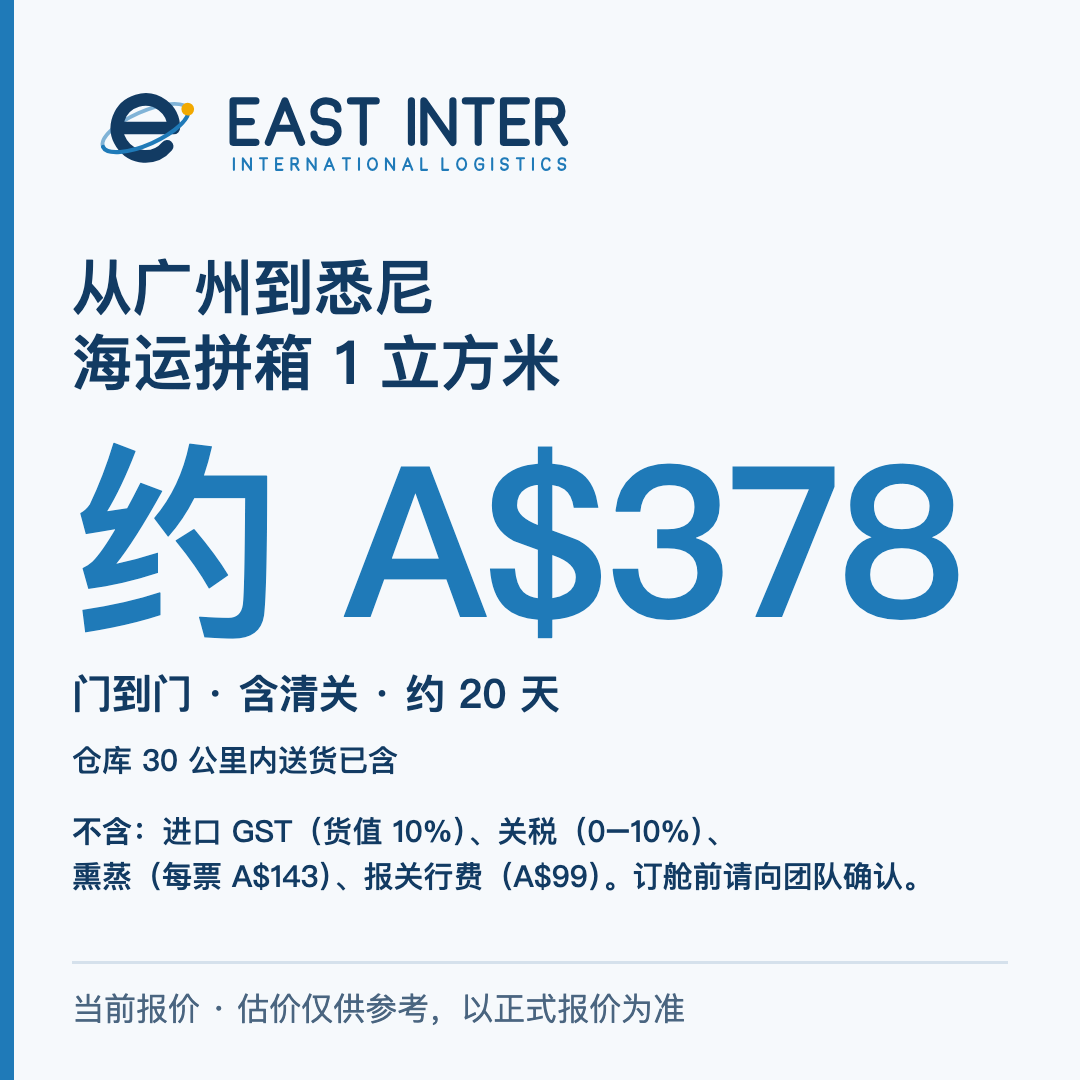
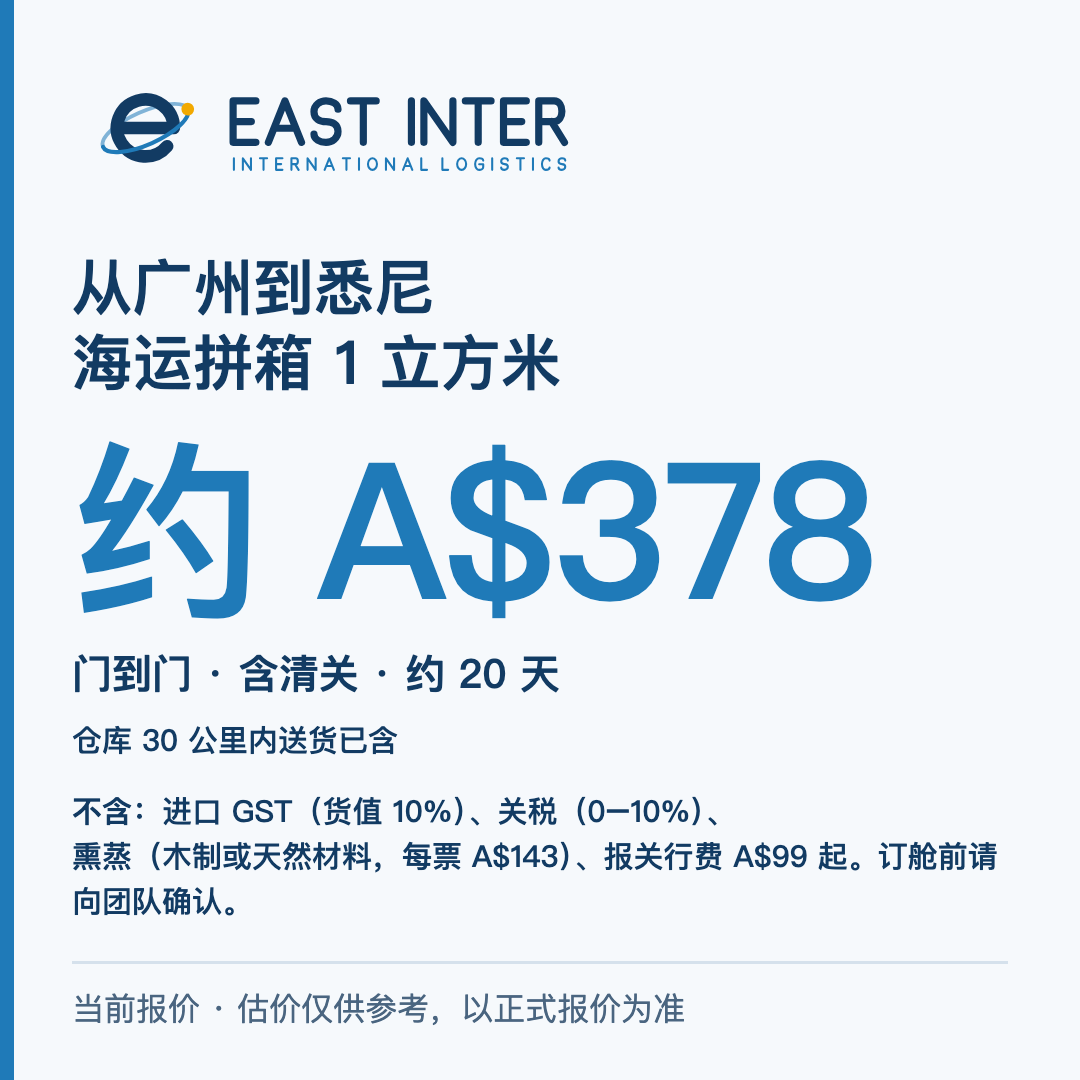
docs(client): 卡 1 熏蒸条件、报关行费、去掉「30 秒」（苏东坡复看意见）[east.social.copy-101]

Changed region(s): [[0.0611, 0.3972, 0.9167, 0.8556], [0.275, 0.3972, 0.8861, 0.6722]]

diff --git a/docs/clients/east-inter/cards-draft/card1-zh.html b/docs/clients/east-inter/cards-draft/card1-zh.html
@@ -5,7 +5,7 @@ body{width:1080px;height:1080px;background:#F6F9FC;font-family:'PingFang SC','He
 .bar{position:absolute;left:0;top:0;width:14px;height:1080px;background:#1F7AB8}
 .main{position:absolute;left:72px;right:72px;top:250px}
 h1{font-size:60px;line-height:1.25;font-weight:800;letter-spacing:.5px}
-.big{font-size:210px;line-height:1;font-weight:900;color:#1F7AB8;margin:36px 0 18px;letter-spacing:-4px}
+.big{font-size:190px;line-height:1;font-weight:900;color:#1F7AB8;margin:36px 0 18px;letter-spacing:-4px}
 .sub{font-size:44px;line-height:1.5;font-weight:600}
 .row{display:flex;justify-content:space-between;align-items:baseline;font-size:54px;font-weight:700;padding:20px 0;border-bottom:3px solid #D5E1EC}
 .row b{color:#1F7AB8;font-weight:900}
@@ -25,4 +25,4 @@ h1{font-size:60px;line-height:1.25;font-weight:800;letter-spacing:.5px}
 <path d="M 230.60 46.00 H 202.00 V 98.00 H 230.60 M 202.00 72.00 H 224.88 M 246.20 98.00 L 267.00 46.00 L 287.80 98.00 M 254.52 80.32 H 279.48 M 333.56 56.40 C 333.56 49.64 326.02 46.00 318.48 46.00 C 310.94 46.00 303.40 51.20 303.40 59.52 C 303.40 68.88 310.94 72.00 318.48 72.00 C 326.02 72.00 333.56 75.12 333.56 84.48 C 333.56 92.80 326.02 98.00 318.48 98.00 C 310.94 98.00 303.40 94.36 303.40 87.60 M 349.16 46.00 H 381.40 M 365.28 46.00 V 98.00 M 425.60 46.00 V 98.00 M 441.20 98.00 V 46.00 L 477.60 98.00 V 46.00 M 493.20 46.00 H 525.44 M 509.32 46.00 V 98.00 M 569.64 46.00 H 541.04 V 98.00 H 569.64 M 541.04 72.00 H 563.92 M 585.24 98.00 V 46.00 H 604.58 C 617.48 46.00 617.48 72.00 604.58 72.00 H 585.24 M 601.36 72.00 L 617.48 98.00" fill="none" stroke="#123B63" stroke-width="9" stroke-linecap="round" stroke-linejoin="round"/>
 <path d="M 203.00 118.00 V 132.50 M 214.25 132.50 V 118.00 L 224.40 132.50 V 118.00 M 235.65 118.00 H 244.64 M 240.15 118.00 V 132.50 M 263.87 118.00 H 255.89 V 132.50 H 263.87 M 255.89 125.25 H 262.27 M 275.12 132.50 V 118.00 H 280.51 C 284.11 118.00 284.11 125.25 280.51 125.25 H 275.12 M 279.61 125.25 L 284.11 132.50 M 295.36 132.50 V 118.00 L 305.51 132.50 V 118.00 M 316.76 132.50 L 322.56 118.00 L 328.36 132.50 M 319.08 127.57 H 326.04 M 339.61 118.00 H 348.60 M 344.10 118.00 V 132.50 M 359.85 118.00 V 132.50 M 376.75 118.00 C 379.58 118.00 382.41 120.90 382.41 125.25 C 382.41 129.60 379.58 132.50 376.75 132.50 C 373.93 132.50 371.10 129.60 371.10 125.25 C 371.10 120.90 373.93 118.00 376.75 118.00 Z M 393.66 132.50 V 118.00 L 403.81 132.50 V 118.00 M 415.06 132.50 L 420.86 118.00 L 426.66 132.50 M 417.38 127.57 H 424.34 M 437.91 118.00 V 132.50 H 445.16 M 464.39 118.00 V 132.50 H 471.64 M 488.54 118.00 C 491.37 118.00 494.20 120.90 494.20 125.25 C 494.20 129.60 491.37 132.50 488.54 132.50 C 485.71 132.50 482.89 129.60 482.89 125.25 C 482.89 120.90 485.71 118.00 488.54 118.00 Z M 515.60 120.90 C 515.60 119.16 513.06 118.00 510.52 118.00 C 507.98 118.00 505.45 120.90 505.45 125.25 C 505.45 129.60 507.98 132.50 510.52 132.50 C 513.06 132.50 515.60 131.05 515.60 128.88 V 125.54 H 510.52 M 526.85 118.00 V 132.50 M 546.51 120.90 C 546.51 119.02 544.41 118.00 542.30 118.00 C 540.20 118.00 538.10 119.45 538.10 121.77 C 538.10 124.38 540.20 125.25 542.30 125.25 C 544.41 125.25 546.51 126.12 546.51 128.73 C 546.51 131.05 544.41 132.50 542.30 132.50 C 540.20 132.50 538.10 131.49 538.10 129.60 M 557.76 118.00 H 566.75 M 562.25 118.00 V 132.50 M 578.00 118.00 V 132.50 M 598.82 120.90 C 598.82 119.16 596.43 118.00 594.03 118.00 C 591.64 118.00 589.25 120.90 589.25 125.25 C 589.25 129.60 591.64 132.50 594.03 132.50 C 596.43 132.50 598.82 131.34 598.82 129.60 M 618.48 120.90 C 618.48 119.02 616.38 118.00 614.28 118.00 C 612.17 118.00 610.07 119.45 610.07 121.77 C 610.07 124.38 612.17 125.25 614.28 125.25 C 616.38 125.25 618.48 126.12 618.48 128.73 C 618.48 131.05 616.38 132.50 614.28 132.50 C 612.17 132.50 610.07 131.49 610.07 129.60" fill="none" stroke="#1F7AB8" stroke-width="2.6" stroke-linecap="round" stroke-linejoin="round"/>
 </svg>
-</div><div class="main"><h1>从广州到悉尼<br>海运拼箱 1 立方米</h1><div class='big'>约 A$378</div><div class='sub' style='font-size:40px'>门到门 · 含清关 · 约 20 天</div><div class='note' style='margin-top:14px'>仓库 30 公里内送货已含</div><div class='note'><b>不含：</b><span style='white-space:nowrap'>进口 GST（货值 10%）</span>、<span style='white-space:nowrap'>关税（0–10%）</span>、<span style='white-space:nowrap'>熏蒸（每票 A$143）</span>、<span style='white-space:nowrap'>报关行费（A$99）</span>。订舱前请向团队确认。</div></div><div class="foot">当前报价 · 估价仅供参考，以正式报价为准</div></body></html>
+</div><div class="main"><h1>从广州到悉尼<br>海运拼箱 1 立方米</h1><div class='big'>约 A$378</div><div class='sub' style='font-size:40px'>门到门 · 含清关 · 约 20 天</div><div class='note' style='margin-top:14px'>仓库 30 公里内送货已含</div><div class='note'><b>不含：</b><span style='white-space:nowrap'>进口 GST（货值 10%）</span>、<span style='white-space:nowrap'>关税（0–10%）</span>、<span style='white-space:nowrap'>熏蒸（木制或天然材料，每票 A$143）</span>、<span style='white-space:nowrap'>报关行费 A$99 起</span>。订舱前请向团队确认。</div></div><div class="foot">当前报价 · 估价仅供参考，以正式报价为准</div></body></html>

diff --git a/docs/clients/east-inter/cards-draft/card1-en.html b/docs/clients/east-inter/cards-draft/card1-en.html
@@ -5,7 +5,7 @@ body{width:1080px;height:1080px;background:#F6F9FC;font-family:'PingFang SC','He
 .bar{position:absolute;left:0;top:0;width:14px;height:1080px;background:#1F7AB8}
 .main{position:absolute;left:72px;right:72px;top:250px}
 h1{font-size:60px;line-height:1.25;font-weight:800;letter-spacing:.5px}
-.big{font-size:210px;line-height:1;font-weight:900;color:#1F7AB8;margin:36px 0 18px;letter-spacing:-4px}
+.big{font-size:190px;line-height:1;font-weight:900;color:#1F7AB8;margin:36px 0 18px;letter-spacing:-4px}
 .sub{font-size:44px;line-height:1.5;font-weight:600}
 .row{display:flex;justify-content:space-between;align-items:baseline;font-size:54px;font-weight:700;padding:20px 0;border-bottom:3px solid #D5E1EC}
 .row b{color:#1F7AB8;font-weight:900}
@@ -25,4 +25,4 @@ h1{font-size:60px;line-height:1.25;font-weight:800;letter-spacing:.5px}
 <path d="M 230.60 46.00 H 202.00 V 98.00 H 230.60 M 202.00 72.00 H 224.88 M 246.20 98.00 L 267.00 46.00 L 287.80 98.00 M 254.52 80.32 H 279.48 M 333.56 56.40 C 333.56 49.64 326.02 46.00 318.48 46.00 C 310.94 46.00 303.40 51.20 303.40 59.52 C 303.40 68.88 310.94 72.00 318.48 72.00 C 326.02 72.00 333.56 75.12 333.56 84.48 C 333.56 92.80 326.02 98.00 318.48 98.00 C 310.94 98.00 303.40 94.36 303.40 87.60 M 349.16 46.00 H 381.40 M 365.28 46.00 V 98.00 M 425.60 46.00 V 98.00 M 441.20 98.00 V 46.00 L 477.60 98.00 V 46.00 M 493.20 46.00 H 525.44 M 509.32 46.00 V 98.00 M 569.64 46.00 H 541.04 V 98.00 H 569.64 M 541.04 72.00 H 563.92 M 585.24 98.00 V 46.00 H 604.58 C 617.48 46.00 617.48 72.00 604.58 72.00 H 585.24 M 601.36 72.00 L 617.48 98.00" fill="none" stroke="#123B63" stroke-width="9" stroke-linecap="round" stroke-linejoin="round"/>
 <path d="M 203.00 118.00 V 132.50 M 214.25 132.50 V 118.00 L 224.40 132.50 V 118.00 M 235.65 118.00 H 244.64 M 240.15 118.00 V 132.50 M 263.87 118.00 H 255.89 V 132.50 H 263.87 M 255.89 125.25 H 262.27 M 275.12 132.50 V 118.00 H 280.51 C 284.11 118.00 284.11 125.25 280.51 125.25 H 275.12 M 279.61 125.25 L 284.11 132.50 M 295.36 132.50 V 118.00 L 305.51 132.50 V 118.00 M 316.76 132.50 L 322.56 118.00 L 328.36 132.50 M 319.08 127.57 H 326.04 M 339.61 118.00 H 348.60 M 344.10 118.00 V 132.50 M 359.85 118.00 V 132.50 M 376.75 118.00 C 379.58 118.00 382.41 120.90 382.41 125.25 C 382.41 129.60 379.58 132.50 376.75 132.50 C 373.93 132.50 371.10 129.60 371.10 125.25 C 371.10 120.90 373.93 118.00 376.75 118.00 Z M 393.66 132.50 V 118.00 L 403.81 132.50 V 118.00 M 415.06 132.50 L 420.86 118.00 L 426.66 132.50 M 417.38 127.57 H 424.34 M 437.91 118.00 V 132.50 H 445.16 M 464.39 118.00 V 132.50 H 471.64 M 488.54 118.00 C 491.37 118.00 494.20 120.90 494.20 125.25 C 494.20 129.60 491.37 132.50 488.54 132.50 C 485.71 132.50 482.89 129.60 482.89 125.25 C 482.89 120.90 485.71 118.00 488.54 118.00 Z M 515.60 120.90 C 515.60 119.16 513.06 118.00 510.52 118.00 C 507.98 118.00 505.45 120.90 505.45 125.25 C 505.45 129.60 507.98 132.50 510.52 132.50 C 513.06 132.50 515.60 131.05 515.60 128.88 V 125.54 H 510.52 M 526.85 118.00 V 132.50 M 546.51 120.90 C 546.51 119.02 544.41 118.00 542.30 118.00 C 540.20 118.00 538.10 119.45 538.10 121.77 C 538.10 124.38 540.20 125.25 542.30 125.25 C 544.41 125.25 546.51 126.12 546.51 128.73 C 546.51 131.05 544.41 132.50 542.30 132.50 C 540.20 132.50 538.10 131.49 538.10 129.60 M 557.76 118.00 H 566.75 M 562.25 118.00 V 132.50 M 578.00 118.00 V 132.50 M 598.82 120.90 C 598.82 119.16 596.43 118.00 594.03 118.00 C 591.64 118.00 589.25 120.90 589.25 125.25 C 589.25 129.60 591.64 132.50 594.03 132.50 C 596.43 132.50 598.82 131.34 598.82 129.60 M 618.48 120.90 C 618.48 119.02 616.38 118.00 614.28 118.00 C 612.17 118.00 610.07 119.45 610.07 121.77 C 610.07 124.38 612.17 125.25 614.28 125.25 C 616.38 125.25 618.48 126.12 618.48 128.73 C 618.48 131.05 616.38 132.50 614.28 132.50 C 612.17 132.50 610.07 131.49 610.07 129.60" fill="none" stroke="#1F7AB8" stroke-width="2.6" stroke-linecap="round" stroke-linejoin="round"/>
 </svg>
-</div><div class="main"><h1>Guangzhou to Sydney<br>Sea freight LCL, 1 m³</h1><div class='big' style='font-size:160px;margin:24px 0 12px'>≈ A$378</div><div class='sub' style='font-size:38px'>Door to door · clearance included<br>Approx. 20 days (estimate)</div><div class='note' style='margin-top:14px'>Delivery within 30 km of the warehouse is included.</div><div class='note'><b>Not included:</b> GST (10% of goods value), import duty (0–10%), fumigation (A$143 per shipment), customs broker fee (A$99). <span style='white-space:nowrap'>Contact us to confirm.</span></div></div><div class="foot">Indicative estimate. Final charges are subject to a binding quote.</div></body></html>
+</div><div class="main"><h1>Guangzhou to Sydney<br>Sea freight LCL, 1 m³</h1><div class='big' style='font-size:150px;margin:20px 0 10px'>≈ A$378</div><div class='sub' style='font-size:38px'>Door to door · clearance included<br>Approx. 20 days (estimate)</div><div class='note' style='margin-top:14px'>Delivery within 30 km of the warehouse is included.</div><div class='note'><b>Not included:</b> GST (10% of goods value), import duty (0–10%), fumigation (wood or natural materials, A$143 per shipment), customs broker fee (from A$99). <span style='white-space:nowrap'>Contact us to confirm.</span></div></div><div class="foot">Indicative estimate. Final charges are subject to a binding quote.</div></body></html>

diff --git a/docs/clients/east-inter/cards-draft/card2-en.html b/docs/clients/east-inter/cards-draft/card2-en.html
@@ -5,7 +5,7 @@ body{width:1080px;height:1080px;background:#F6F9FC;font-family:'PingFang SC','He
 .bar{position:absolute;left:0;top:0;width:14px;height:1080px;background:#1F7AB8}
 .main{position:absolute;left:72px;right:72px;top:250px}
 h1{font-size:60px;line-height:1.25;font-weight:800;letter-spacing:.5px}
-.big{font-size:210px;line-height:1;font-weight:900;color:#1F7AB8;margin:36px 0 18px;letter-spacing:-4px}
+.big{font-size:190px;line-height:1;font-weight:900;color:#1F7AB8;margin:36px 0 18px;letter-spacing:-4px}
 .sub{font-size:44px;line-height:1.5;font-weight:600}
 .row{display:flex;justify-content:space-between;align-items:baseline;font-size:54px;font-weight:700;padding:20px 0;border-bottom:3px solid #D5E1EC}
 .row b{color:#1F7AB8;font-weight:900}

diff --git a/docs/clients/east-inter/cards-draft/card2-zh.html b/docs/clients/east-inter/cards-draft/card2-zh.html
@@ -5,7 +5,7 @@ body{width:1080px;height:1080px;background:#F6F9FC;font-family:'PingFang SC','He
 .bar{position:absolute;left:0;top:0;width:14px;height:1080px;background:#1F7AB8}
 .main{position:absolute;left:72px;right:72px;top:250px}
 h1{font-size:60px;line-height:1.25;font-weight:800;letter-spacing:.5px}
-.big{font-size:210px;line-height:1;font-weight:900;color:#1F7AB8;margin:36px 0 18px;letter-spacing:-4px}
+.big{font-size:190px;line-height:1;font-weight:900;color:#1F7AB8;margin:36px 0 18px;letter-spacing:-4px}
 .sub{font-size:44px;line-height:1.5;font-weight:600}
 .row{display:flex;justify-content:space-between;align-items:baseline;font-size:54px;font-weight:700;padding:20px 0;border-bottom:3px solid #D5E1EC}
 .row b{color:#1F7AB8;font-weight:900}

diff --git a/docs/clients/east-inter/cards-draft/d1-zh.html b/docs/clients/east-inter/cards-draft/d1-zh.html
@@ -5,7 +5,7 @@ body{width:1080px;height:1080px;background:#F6F9FC;font-family:'PingFang SC','He
 .bar{position:absolute;left:0;top:0;width:14px;height:1080px;background:#1F7AB8}
 .main{position:absolute;left:72px;right:72px;top:250px}
 h1{font-size:60px;line-height:1.25;font-weight:800;letter-spacing:.5px}
-.big{font-size:210px;line-height:1;font-weight:900;color:#1F7AB8;margin:36px 0 18px;letter-spacing:-4px}
+.big{font-size:190px;line-height:1;font-weight:900;color:#1F7AB8;margin:36px 0 18px;letter-spacing:-4px}
 .sub{font-size:44px;line-height:1.5;font-weight:600}
 .row{display:flex;justify-content:space-between;align-items:baseline;font-size:54px;font-weight:700;padding:20px 0;border-bottom:3px solid #D5E1EC}
 .row b{color:#1F7AB8;font-weight:900}

diff --git a/docs/clients/east-inter/cards-draft/d2-zh.html b/docs/clients/east-inter/cards-draft/d2-zh.html
@@ -5,7 +5,7 @@ body{width:1080px;height:1080px;background:#F6F9FC;font-family:'PingFang SC','He
 .bar{position:absolute;left:0;top:0;width:14px;height:1080px;background:#1F7AB8}
 .main{position:absolute;left:72px;right:72px;top:250px}
 h1{font-size:60px;line-height:1.25;font-weight:800;letter-spacing:.5px}
-.big{font-size:210px;line-height:1;font-weight:900;color:#1F7AB8;margin:36px 0 18px;letter-spacing:-4px}
+.big{font-size:190px;line-height:1;font-weight:900;color:#1F7AB8;margin:36px 0 18px;letter-spacing:-4px}
 .sub{font-size:44px;line-height:1.5;font-weight:600}
 .row{display:flex;justify-content:space-between;align-items:baseline;font-size:54px;font-weight:700;padding:20px 0;border-bottom:3px solid #D5E1EC}
 .row b{color:#1F7AB8;font-weight:900}

diff --git a/docs/clients/east-inter/cards-draft/d4-zh.html b/docs/clients/east-inter/cards-draft/d4-zh.html
@@ -5,7 +5,7 @@ body{width:1080px;height:1080px;background:#F6F9FC;font-family:'PingFang SC','He
 .bar{position:absolute;left:0;top:0;width:14px;height:1080px;background:#1F7AB8}
 .main{position:absolute;left:72px;right:72px;top:250px}
 h1{font-size:60px;line-height:1.25;font-weight:800;letter-spacing:.5px}
-.big{font-size:210px;line-height:1;font-weight:900;color:#1F7AB8;margin:36px 0 18px;letter-spacing:-4px}
+.big{font-size:190px;line-height:1;font-weight:900;color:#1F7AB8;margin:36px 0 18px;letter-spacing:-4px}
 .sub{font-size:44px;line-height:1.5;font-weight:600}
 .row{display:flex;justify-content:space-between;align-items:baseline;font-size:54px;font-weight:700;padding:20px 0;border-bottom:3px solid #D5E1EC}
 .row b{color:#1F7AB8;font-weight:900}

diff --git a/docs/clients/east-inter/2026-10-14-price-cards-copy-draft.md b/docs/clients/east-inter/2026-10-14-price-cards-copy-draft.md
@@ -15,7 +15,7 @@
 
 ## 卡 1 · 一立方米多少钱
 
-**卡面大字**：从广州到悉尼，海运拼箱 1 立方米 → **约 A$378**（卡面另有「不含」小字，见画面草稿）
+**卡面大字**：从广州到悉尼，海运拼箱 1 立方米 → **约 A$378**（卡面另有「不含」小字：熏蒸写明「木制或天然材料」、报关行费写「A$99 起」，见画面草稿）
 **卡面小字**：门到门 · 含清关 · 预计约 20 天
 **角落**：当前报价 · 估价仅供参考，以正式报价为准
 
@@ -26,7 +26,7 @@
 墨尔本同价；布里斯班同价，预计约 25 天。
 
 不含：进口 GST（货值 10%）、进口关税（0–10%，看商品）、熏蒸（木制或天然材料，每票 A$143）、报关行费 A$99（货值超 A$10,000 为 A$201）。订舱前请向团队确认。
-估价仅供参考，以正式报价为准。你的货多少钱，用计算器 30 秒就能估。
+估价仅供参考，以正式报价为准。你的货多少钱，用计算器即时估价，不用注册。
 
 LCL sea freight, Guangzhou to Sydney, 1 m³: A$378 estimate. Indicative only.
 ```
